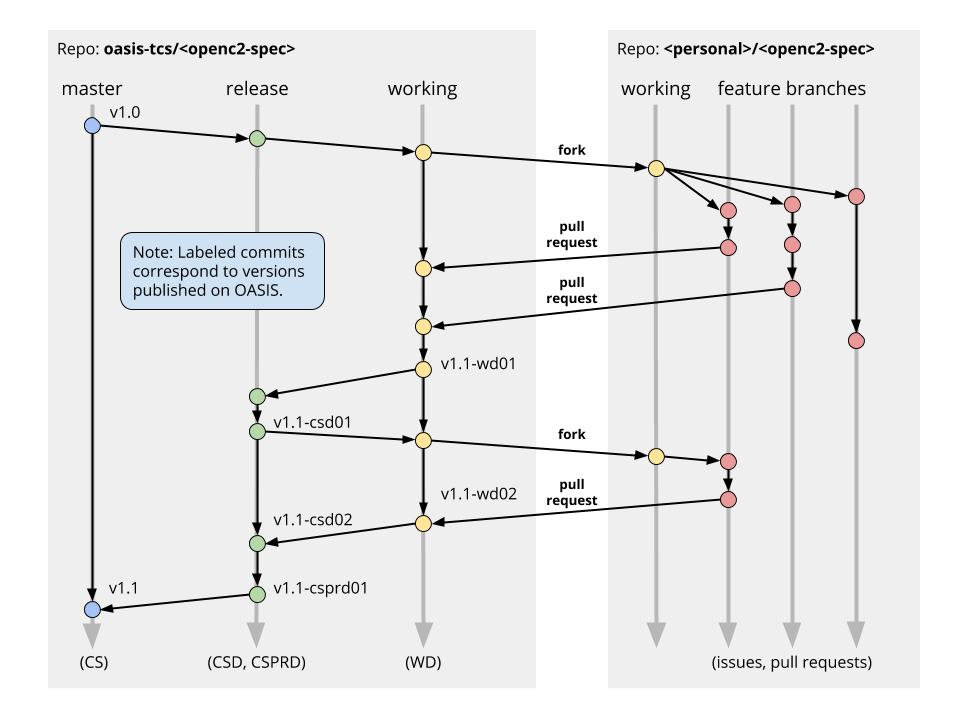
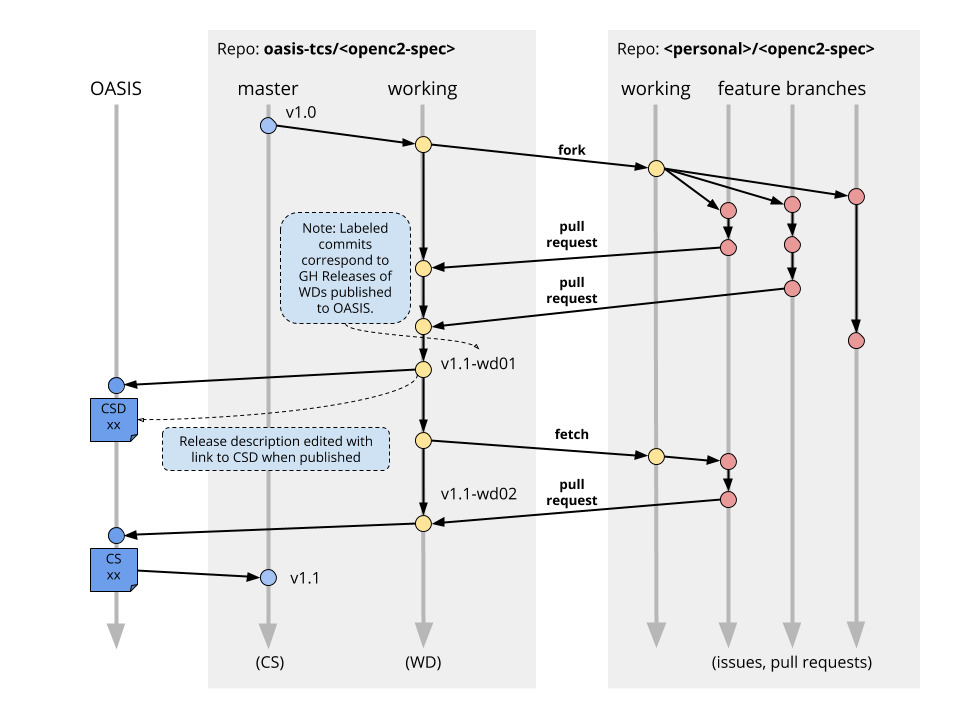
New figure 2, updates through 4.3.3 and subs

Changed region(s): [[0.0625, 0.0611, 0.6562, 0.9472], [0.5625, 0.5806, 0.625, 0.6111]]

diff --git a/Documentation-Norms.md b/Documentation-Norms.md
@@ -361,29 +361,41 @@ When requesting a repository (AKA "TC GitHub version control instance") for a wo
 
 ### 4.3.3 Configure Repository
 
-The following branching scheme has been worked out to facilitate the configuration control of work products developed by the OpenC2 TC. The three branches in the repo are intended to organize the work as follows:
+The following branching scheme has been worked out to
+facilitate the configuration control of work products
+developed by the OpenC2 TC. The two branches in the
+repo are intended to organize the work as follows:
 
-* The *Working* branch contains the newest content for the work product, material that is actively being developed, and subject to potentially frequent and significant change. Contributors to the work product should target their inputs to the Working branch.
+* The *Working* branch contains the newest content for the
+  work product, material that is actively being developed,
+  and subject to potentially frequent and significant
+  change. Contributors to the work product should target
+  their inputs to the Working branch. Working Draft (WD)
+  versions of the work product are identified using the
+  GitHub Release feature, and the WD content is uploaded to
+  the TC's document store at OASIS .
 
-* The *Releases* branch contains incremental releases of the work product, identified as "Working Drafts", as described in Section 3.2 above. When the editors wish to release a WD, the current contents of the Working branch are merged into the Releases branch, a release is created, and the release files are uploaded to OASIS. Working drafts may or may not receive TC approval as CSDs. 
-
-* The *Master* branch contains TC approved CS and OASIS Standard versions of the work product. The Master branch is initially populated with the starter document template supplied by OASIS. Until the first CS is approved, the Master branch will only contain the template rather than a complete version of the work product.
+* The *Master* branch contains TC approved CS and OASIS
+  Standard versions of the work product. The Master branch
+  is initially populated with the starter document template
+  supplied by OASIS. Until the first CS is approved, the
+  Master branch will only contain the template rather than a
+  complete version of the work product.
 
 ![Work Product Repo Branching Concept](images/versioning-concept.png)
 ### Figure 2: Work Product Repository Branching Concept
 
-The diagram assumes a Committee Specification has been
-approved (the v1.0 document) and work is proceeding on a
-future version (the v1.1 document). For a new work product
-the `master` branch would be populated with the
-OASIS-supplied template, and then the `release` and
-`working` branches created in succession so that the
-template is available in the `working` branch as the
-starting point.  Note that this branching strategy is
-intended for the _work product_ managed in the repo. There
-may be reasons to make changes directly to the Master
-branch, such as to update the information in the repo's
-README.md file.
+Figure 2 assumes a Committee Specification has
+been approved (the v1.0 document) and work is proceeding on
+a future version (the v1.1 document). For a new work
+product, as shown in Figure 1, above, the `master` branch
+would be populated with the OASIS-supplied template, and
+then the `working` branches created so that the template is
+available in the `working` branch as the starting point.
+Note that this branching strategy is intended for the _work
+product_ managed in the repo. There may be reasons to make
+changes directly to the Master branch, such as to update the
+information in the repo's README.md file.
 
 * [Diagram Source (Original Google Draw File)](https://docs.google.com/drawings/d/1cJDmBxwaSZnGhqCZqz2O5XaXuxOIU3XMP5caE9o_Gzo/edit)
 
@@ -414,13 +426,7 @@ This repository is organized with three branches:
  change. Contributors to the work product should 
  target their inputs to the Working branch.
 
- * The *_Releases_* branch contains incremental 
- releases (i.e., Working Drafts [WDs]) of the work 
- product. The current contents of the Working 
- branch are merged into the Releases branch to 
- create a WD. 
-
- * The *_Master_* branch contains TC-approved 
+  * The *_Master_* branch contains TC-approved 
 [Committee Specification](https://www.oasis-open.org/policies-guidelines/oasis-defined-terms-2018-05-22#dCommitteeSpec) (CS) or [OASIS Standard](https://www.oasis-open.org/policies-guidelines/oasis-defined-terms-2018-05-22#dOASISstandard) 
 versions of the work product. Until the first CS 
 is approved, the Master branch will not contain 
@@ -432,9 +438,26 @@ a complete version of the work product.
 
 #### 4.3.3.2 Create and Populate Branches
 
-When the repo is available the maintainers should populate the Master branch with the starter document received from TC Administration (including the subdirectories and supporting files), then create a Releases branch from the Master branch, and a Working branch from the Releases branch. Activity to develop the product then proceeds as described above. The Master branch will only have the initial template until a CS is approved, at which point the maintainers populate it with the current CS version. Each time a new CS is approved the Master branch is updated.
+When the repo is available the maintainers should populate
+the `master` branch with the starter document received from TC
+Administration (including the subdirectories and supporting
+files), then create a `working` branch from the `master`
+branch. Activity to develop the product then proceeds as
+described above. The Master branch will only have the
+initial template until a CS is approved, at which point the
+maintainers populate it with the current CS version. Each
+time a new CS is approved the Master branch is updated.
 
-Work-in-progress will always be handled in the "working" branch, and checkpointed to the releases branch as Working Drafts (WDs) are declared and Committee Specification Drafts (CSDs) are approved.
+Work-in-progress is always handled in the `working` branch,
+using the standard GitHub mechanisms of forking the work
+product repository and creating pull requests (PRs) with
+contributions. When Working Drafts (WDs) are declared, the
+GitHub Release feature is used to created the WD package for
+upload to OASIS.  If a WD is approved as a Committee
+Specification Draft (CSD) the editors should edit the
+Release description to (i) record that the WD was approved
+and the CSD version, and (ii) add a link to the published
+CDS at OASIS.
 
 ## 4.4 Incremental Development
 
